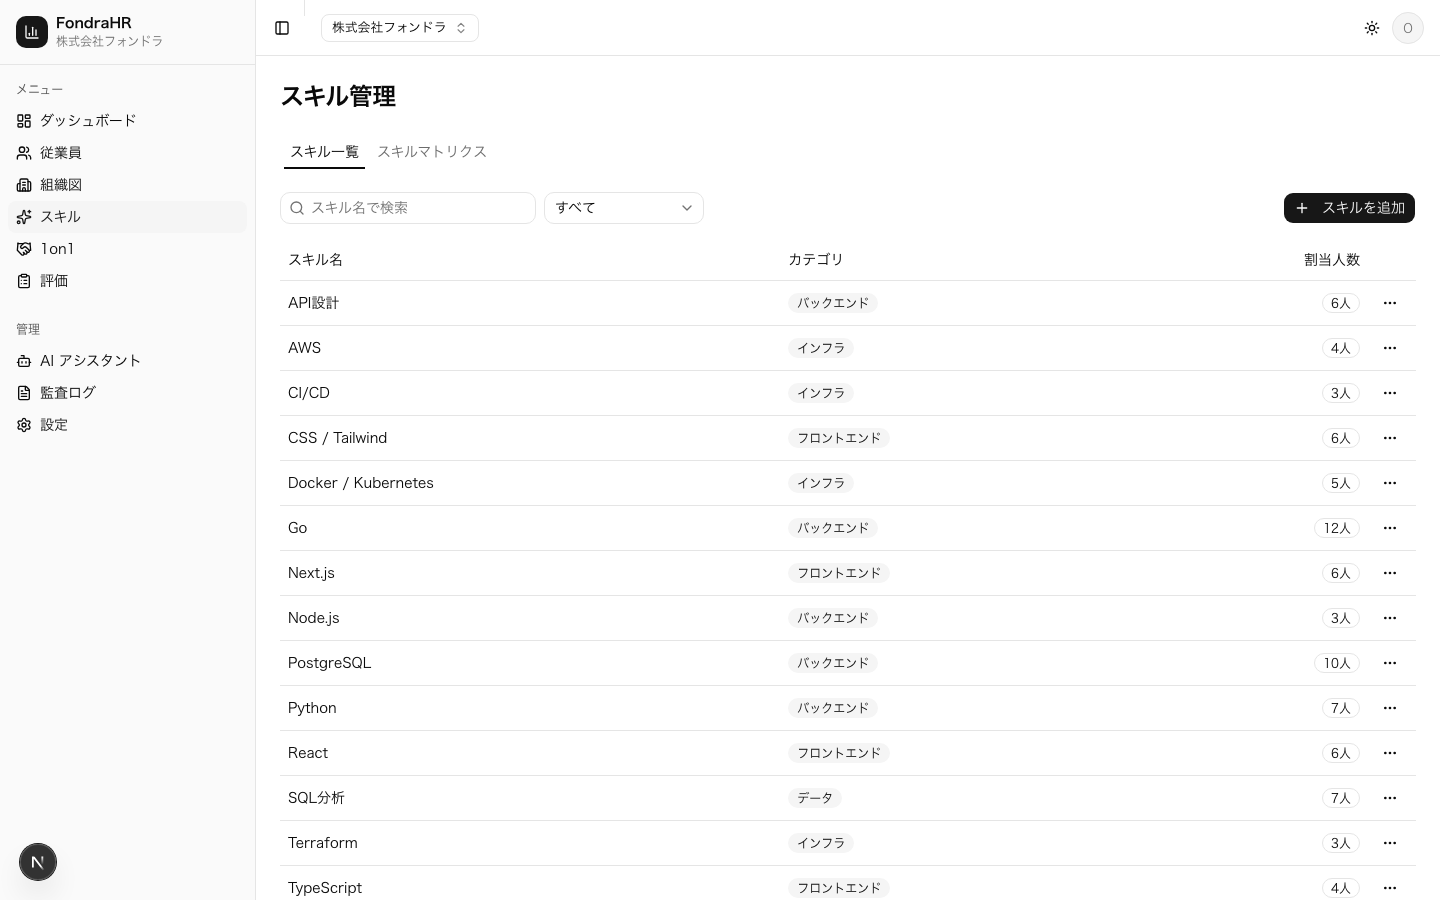
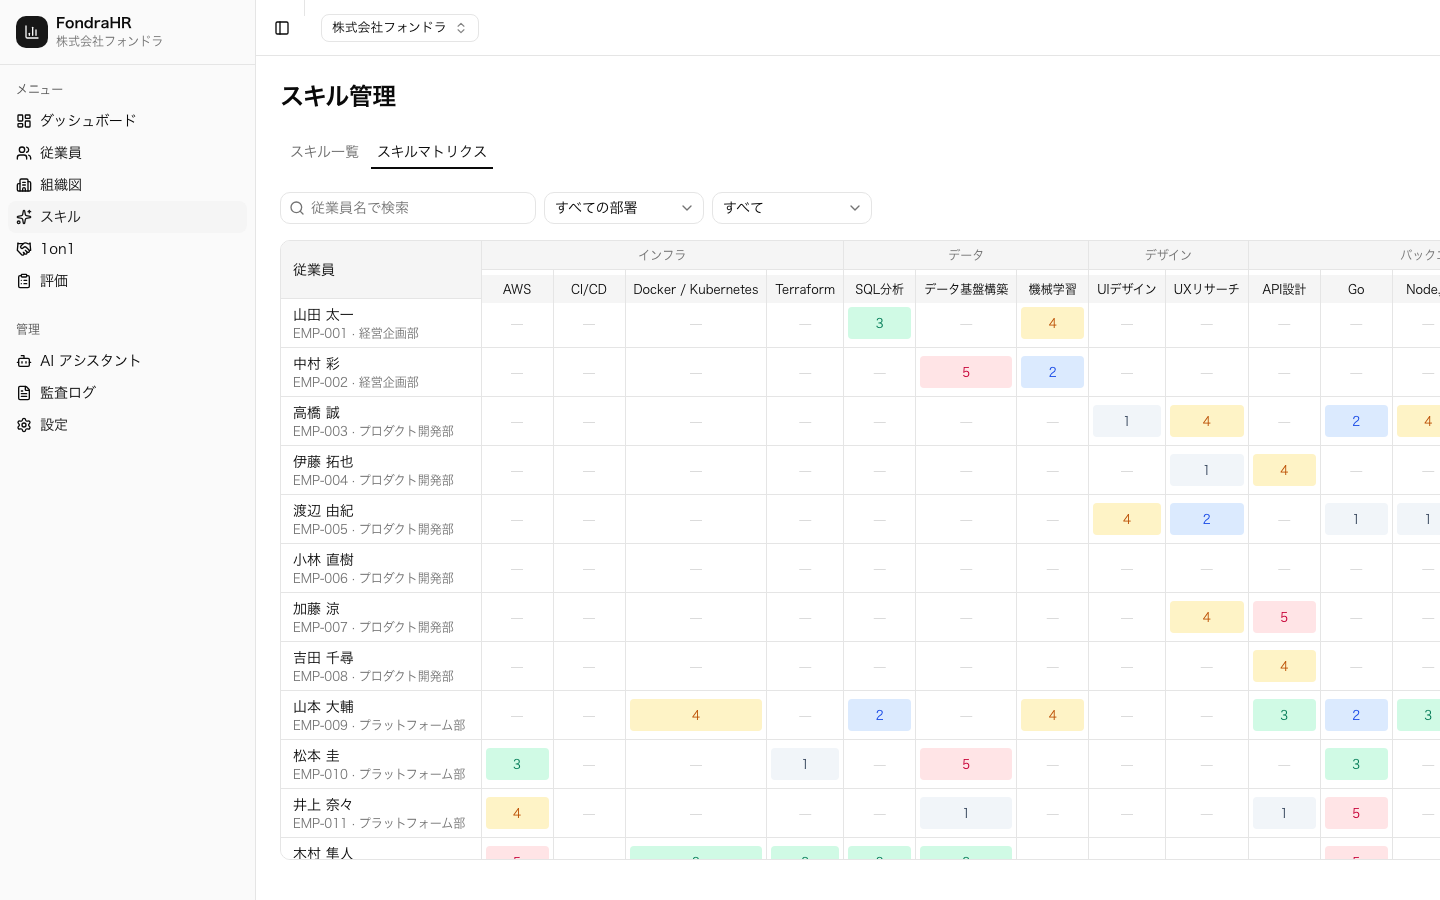
fix: スキルマトリクスが 500 で落ちるのを修正しスクリーンショットを撮り直す (#48)
README 用のスクリーンショットを撮り直そうとしたところ、スキルマトリクスが
Skeleton のまま止まった。dev サーバーのログに Postgres の 42809
（op ANY/ALL (array) requires array on right side）が出ており、
fetchSkillMatrix が 500 を返していた。

原因は getSkillMatrix のセル取得条件。

    sql`${employeeSkills.employeeId} = any(${employeeIds})`

Drizzle は sql テンプレートに渡した JS 配列を $1, $2, $3... と個別の
パラメータに展開する。any() は配列をひとつ受け取る必要があるため、
生成される SQL が壊れる。inArray() に置き換えた。

なぜ既存のテストで止まらなかったか:

- ユニットテストは Drizzle をモックするため SQL の意味論を検証できない
- e2e の `switches to matrix tab` は aria-selected しか見ておらず、
  中身が描画されたかを検証していなかった
- さらに e2e 組織はスキルが0件で、
  `if (employeeIds.length > 0 && skillIds.length > 0)` のガードにより
  問題の分岐に一度も入っていなかった

塞いだもの:

- ユニット: 生成される WHERE 句の形を固定する回帰テストを追加。
  修正を戻して落ちることを確認済み
- e2e: global-setup にスキル1件と割当（level 3）を追加し、表・列ヘッダ・
  本人行のレベル値まで検証するテストを新設

スクリーンショット:

- 撮影時に Next.js の開発オーバーレイを CSS で非表示にした。
  devIndicators を切るのではなく撮影時だけ消す
- skills.png をスキルマトリクスに変更。従来はスキル一覧タブが写っており
  README のキャプション「スキルマトリクス」と食い違っていた。
  マトリクスはクライアント取得なので、描画を待つ waitAfter を足している

diff --git a/tests/unit/skill-service.test.ts b/tests/unit/skill-service.test.ts
@@ -1067,6 +1067,25 @@ describe('getSkillMatrix — 絞り込みと端のケース', () => {
     expect(db.select).toHaveBeenCalledTimes(2);
   });
 
+  it('セル取得の絞り込みは inArray で組み立てる', async () => {
+    // sql`= any(${配列})` だと Drizzle が配列を $1, $2, ... に展開してしまい、
+    // any() が要求する配列にならず Postgres が 42809 で落ちる。
+    // 型もテストも通ってしまい、実行して初めて 500 になる種類の不具合なので、
+    // 生成される SQL の形をここで固定する。
+    const { getSkillMatrix } = await import('@/services/skill');
+
+    const db = await getDb();
+    db.select.mockImplementation(createSequentialSelect([emps, skls, []]));
+
+    await getSkillMatrix(adminCtx, {});
+
+    const where = selectCallAt(db, 2).where.mock.calls[0][0];
+    expect(sqlText(where)).toContain('employee_id in');
+    expect(sqlText(where)).toContain('skill_id in');
+    expect(sqlText(where)).not.toContain('any(');
+    expect(collectParams(where)).toContainEqual({ column: 'org_id', value: 'org-1' });
+  });
+
   it('カテゴリ未設定のスキルは categories に含めない', async () => {
     // null をそのまま並べるとフィルタ UI に空欄が出る。
     const { getSkillMatrix } = await import('@/services/skill');

diff --git a/tests/e2e/skills.spec.ts b/tests/e2e/skills.spec.ts
@@ -1,5 +1,7 @@
 import { test, expect } from '@playwright/test';
 
+import { MARKERS } from './authorization-fixtures';
+
 test.describe('スキル管理', () => {
   test('displays skill page with tabs', async ({ page }) => {
     await page.goto('/skills');
@@ -80,5 +82,22 @@ test.describe('スキル管理', () => {
       'aria-selected',
       'true',
     );
+  });
+
+  // タブが選択されたことだけを見ていると、セル取得が 500 で落ちていても
+  // Skeleton のまま素通りする（実際にそれで不具合が漏れた）。
+  // 描画された表と、割り当てたレベルまで確認する。
+  test('renders the matrix grid with assigned levels', async ({ page }) => {
+    await page.goto('/skills');
+    await page.getByRole('tab', { name: 'スキルマトリクス' }).click();
+
+    const grid = page.locator('table');
+    await expect(grid).toBeVisible();
+    await expect(grid.getByRole('columnheader', { name: MARKERS.skillName })).toBeVisible();
+
+    const selfRow = grid.locator('tr', { hasText: 'E2E本人' }).first();
+    await expect(selfRow).toBeVisible();
+    // global-setup で level 3 を割り当てている。未割当は「-」になる。
+    await expect(selfRow.getByText('3', { exact: true })).toBeVisible();
   });
 });

diff --git a/tests/e2e/global-setup.ts b/tests/e2e/global-setup.ts
@@ -173,6 +173,35 @@ async function seedFixtures(orgId: string, memberUserId: string): Promise<Fixtur
     });
   }
 
+  // スキルマトリクス用。従業員とスキルが両方1件以上あって初めて
+  // セル取得のクエリが実行される（どちらかが0件だと空状態で素通りする）。
+  // 割当まで入れないと、レベル付きセルの描画経路を通らない。
+  const existingSkills = await adminSelect<{ id: string; name: string }[]>(
+    `skills?org_id=eq.${orgId}&select=id,name`,
+  );
+  const matrixSkill = existingSkills.find((s) => s.name === MARKERS.skillName);
+  const skillId =
+    matrixSkill?.id ??
+    (
+      await adminInsert<{ id: string }[]>('skills', {
+        org_id: orgId,
+        name: MARKERS.skillName,
+        category: 'バックエンド',
+      })
+    )[0].id;
+
+  const assigned = await adminSelect<{ id: string }[]>(
+    `employee_skills?org_id=eq.${orgId}&employee_id=eq.${selfEmployeeId}&skill_id=eq.${skillId}&select=id`,
+  );
+  if (assigned.length === 0) {
+    await adminInsert('employee_skills', {
+      org_id: orgId,
+      employee_id: selfEmployeeId,
+      skill_id: skillId,
+      level: 3,
+    });
+  }
+
   return { orgId, selfEmployeeId, othersEmployeeId };
 }
 

diff --git a/src/services/skill.ts b/src/services/skill.ts
@@ -1,4 +1,4 @@
-import { and, asc, count, eq, ilike, sql } from 'drizzle-orm';
+import { and, asc, count, eq, ilike, inArray, sql } from 'drizzle-orm';
 
 import { db } from '@/db';
 import { departments } from '@/db/schema/departments';
@@ -275,8 +275,11 @@ export async function getSkillMatrix(
       .where(
         and(
           eq(employeeSkills.orgId, ctx.orgId),
-          sql`${employeeSkills.employeeId} = any(${employeeIds})`,
-          sql`${employeeSkills.skillId} = any(${skillIds})`,
+          // inArray を使う。sql`= any(${配列})` は Drizzle が配列を $1, $2, ... と
+          // 個別のパラメータに展開するため any() が要求する配列にならず、
+          // Postgres が 42809（op ANY/ALL (array) requires array on right side）で落ちる。
+          inArray(employeeSkills.employeeId, employeeIds),
+          inArray(employeeSkills.skillId, skillIds),
         ),
       );
   }

diff --git a/tests/e2e/authorization-fixtures.ts b/tests/e2e/authorization-fixtures.ts
@@ -33,6 +33,11 @@ export const MARKERS = {
   confirmedComment: 'E2E-CONFIRMED-COMMENT-FOR-SELF',
   unconfirmedComment: 'E2E-UNCONFIRMED-COMMENT-FOR-SELF',
   cycleName: 'E2E認可テストサイクル',
+  /**
+   * スキルマトリクスの検証用。従業員とスキルが両方1件以上ないと
+   * マトリクスは空状態になり、セル取得のクエリ自体が実行されない。
+   */
+  skillName: 'E2Eマトリクス検証スキル',
 } as const;
 
 export interface Fixtures {
